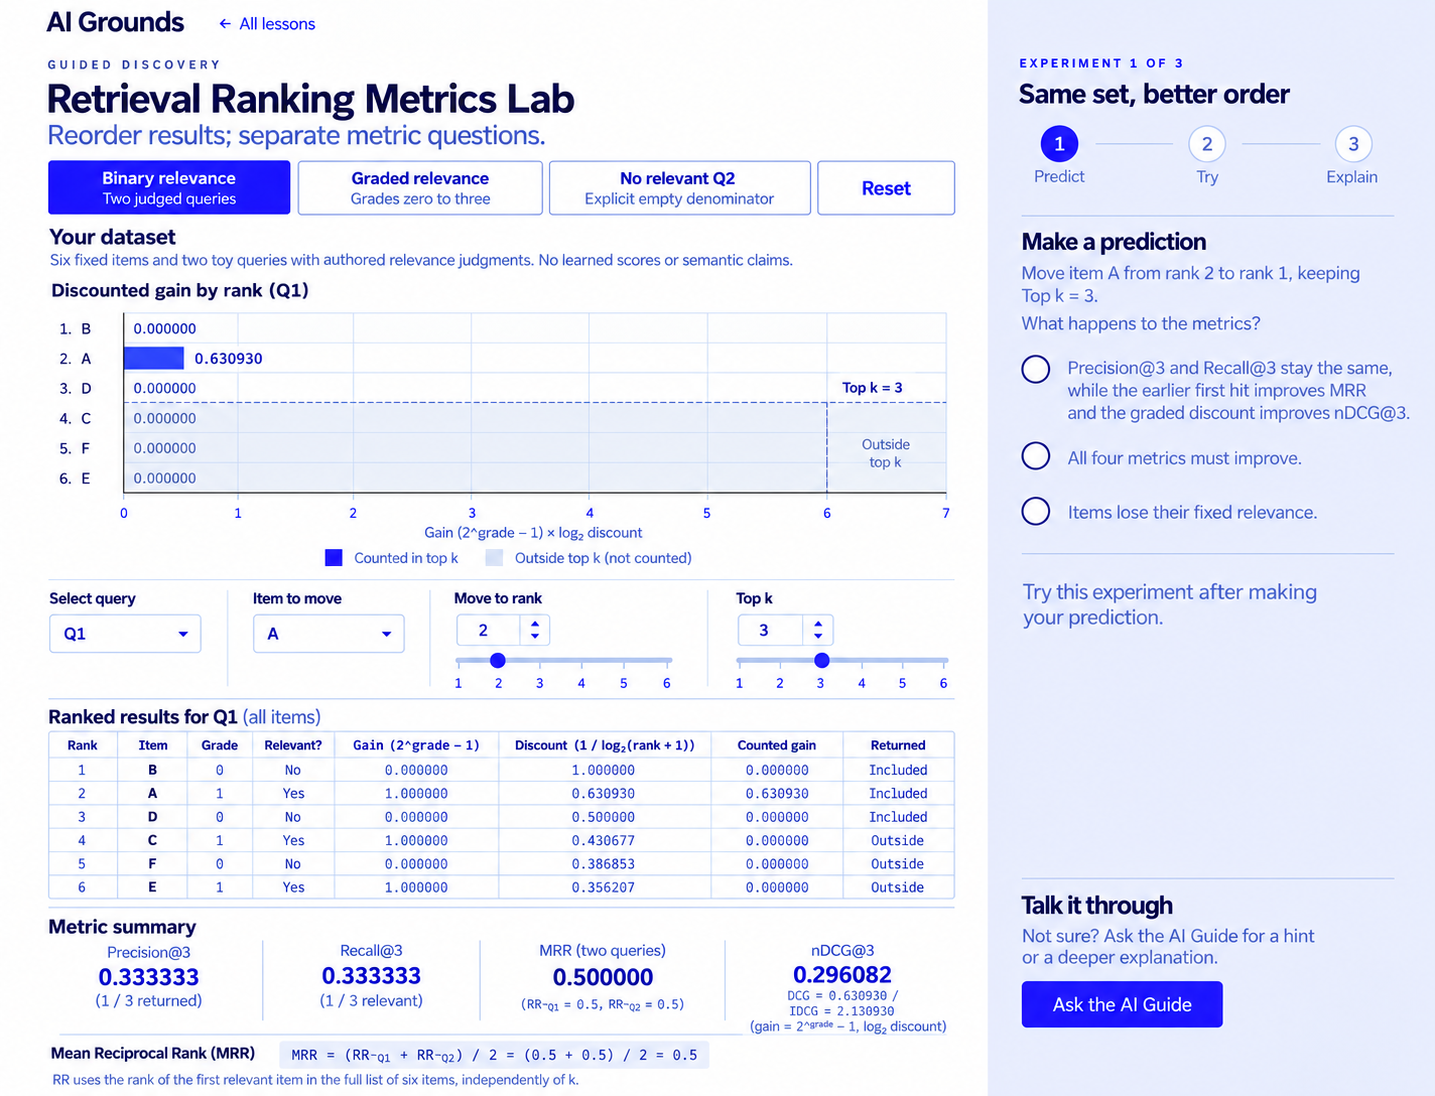
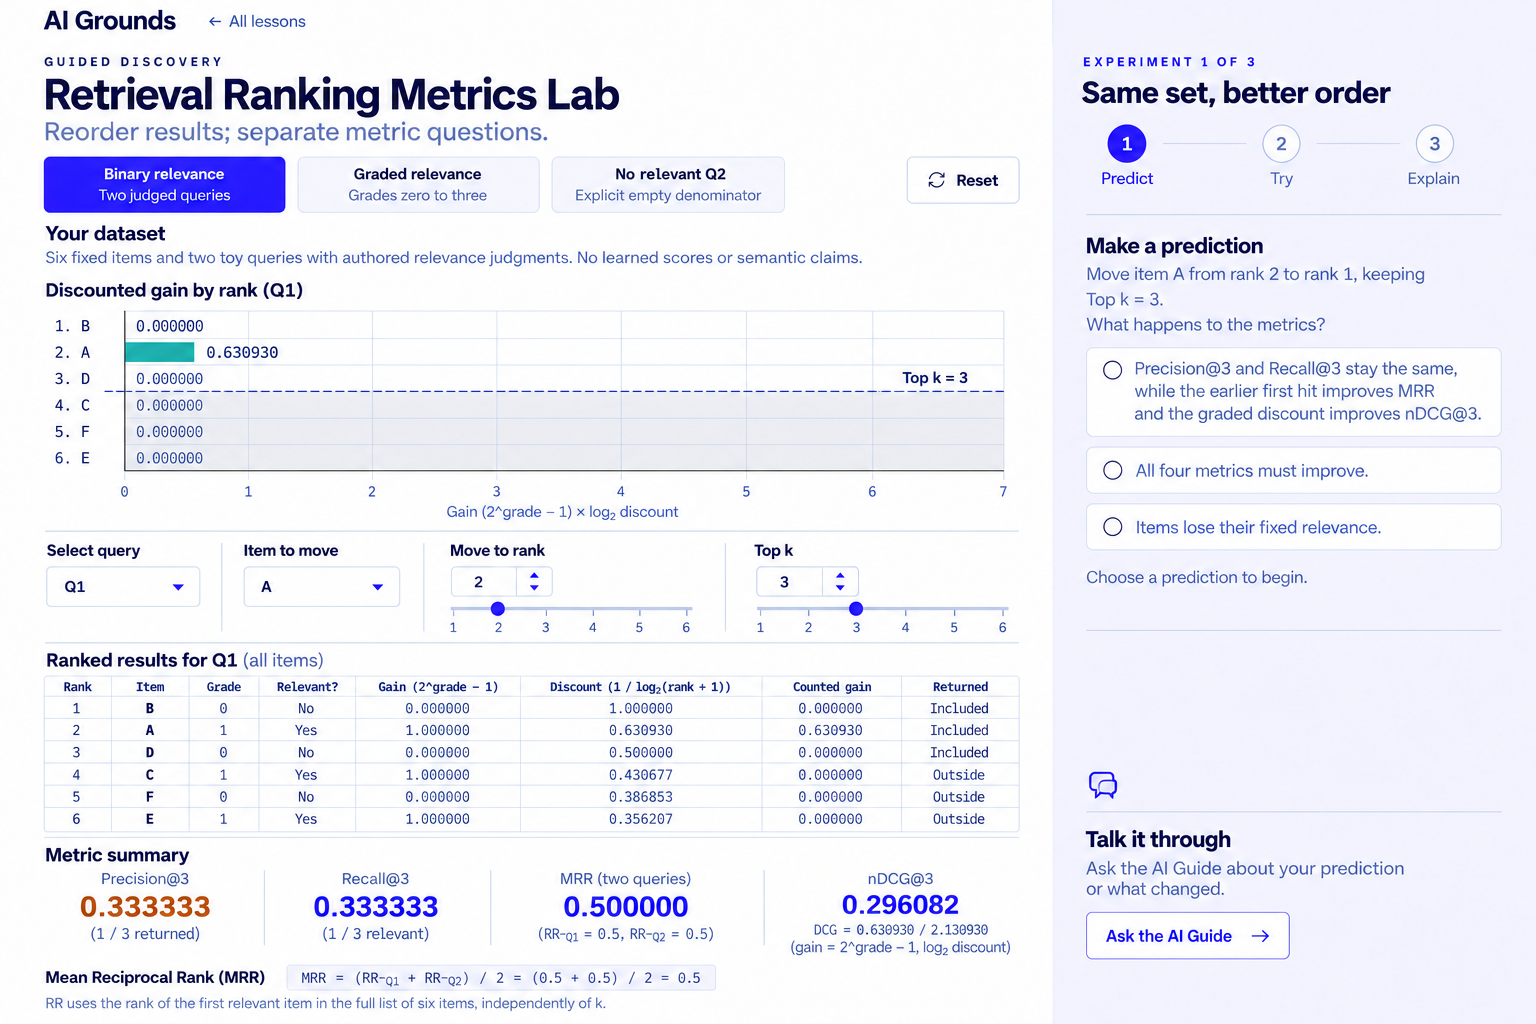
Restore original style in ranking metrics design reference

diff --git a/src/modules/retrieval-ranking-metrics/design/imagegen-prompt.md b/src/modules/retrieval-ranking-metrics/design/imagegen-prompt.md
@@ -6,3 +6,11 @@ Create a polished AI Grounds educational lesson desktop mockup at 1440x1100. Fol
 
 Create a polished AI Grounds educational lesson desktop mockup at 1440x1100. Follow the attached shared accepted reference's continuous white 69% workbench / pale lavender31% experiment rail, navy Space Grotesk, indigo controls, IBM Plex Mono formulas, fine rules, no shadow cards. Lesson title Retrieval Ranking Metrics Lab; subtitle Reorder results; separate metric questions. Top scenario buttons Binary relevance / Two judged queries, Graded relevance / Grades zero to three, No relevant Q2 / Explicit empty denominator, Reset. Initial Binary relevance selected. Your dataset: Six fixed item IDs, two toy queries with authored relevance judgments. No learned scores or semantic claims. Query selector Q1 / Q2 (Q1 selected), Item to move selector A..F (A selected), Move to rank native exact field2 +slider1..6, Top k native field3+slider1..6. Initial Q1 full ranked order B,A,D,C,F,E; grades respectively0,1,0,1,0,1. A chart 'Discounted gain by rank' has six horizontal rank rows with IDs, selected top-k boundary after rank3. Contribution bar values B0, A0.630930, D0, C0(outside topk), F0, E0(outsidetopk), fixed gain scale0..7. One exact all-ID rank table headers Rank, Item, Grade, Relevant?, Gain, Discount, Counted gain, Returned. Exact row1B grade0 no gain0 discount1 contribution0 included; row2A grade1 yes gain1 discount.630930 counted.630930 included; row3D grade0 no gain0 discount.5 counted0 included; row4C grade1 yes gain1 discount.430677 counted0 outside; row5F grade0 no gain0 discount.386853 counted0 outside; row6E grade1 yes gain1 discount.356207 counted0 outside. Metric summary open4columns Precision@3=0.333333 (1/3returned), Recall@3=0.333333 (1/3relevant), MRR(two queries)=0.500000 (full lists; RRQ1.5 RRQ2.5), nDCG@3=0.296082 (DCG.630930/IDCG2.130930; gain2^grade−1,log2discount). Plain formula MRR=(RRQ1+RRQ2)/2=(0.5+0.5)/2=0.5; RR uses first relevant in fullsixlist, independently ofk. Q2 baseline orderA,B,C,D,E,F, relevantB/D. Right rail Experiment1of3 Same set, better order; Predict→Try→Explain. Prediction asks Move A from rank2 to rank1 keepingTopk3. Choices precision/recallstaythe same while earlier first hit improvesRRandgradeddiscount; allscoresmustimprove; itemslosefixedrelevance. One Ask the AI Guide CTA inrailonly. No semanticqueries ormodelcontrols, no extra graph, no clippedtable. Exponential gain convention explicit; nDCGnotrawgradeformula. Chartillustrativebutnumberscorrect.
 REVISION: remove both redundant standalone relevance-coordinate lists, since the exact ranked table already provides every grade and Relevant? label for the selected query. Selecting Q2 inspects its own full table. Controls should be in a simple horizontal or two-column band directly below the full-width chart: Query selector (prefer shared labeled native select Q1/Q2), Item to move native select, Move to rank exact number+slider, Top k exact number+slider. Do not copy these controls into table rows. Add the small shared GUIDED DISCOVERY eyebrow above the workbench lesson title. Keep complete subtitle Reorder results; separate metric questions. Keep correct numeric table, actual barvalue.630930, fixed contribution scale0..7, per-row inclusion, summary ratios, real two-query MRR and one rail Guide launcher. No separate list of Q1/Q2grades; do not duplicate same numeric construction in an extra card. Correct nDCGgain convention remains exponential gain and 1/log2(rank+1) discount. Table can scroll locally in implementation rather than cramming labels. Reuse shared reference visual anatomy.
+
+# Original-style correction
+
+Image1 is the original APPROVED paired AI Grounds style reference; use its LEFT page's style for this ONE lesson. Preserve exact look rather than reinterpret it. White continuous workbench69%, palelavenderf6f5ff experimentrail31%, navbar64px AI Grounds / ← All lessons only. Use SpaceGrotesk headingsnavy0c1230, muted536487 body, indigo5031dc interactive controls. Body and table data are navy, NOT saturatedblue. Original inactive scenariobuttons palegraylavender withnavytext; active solidindigo withwhite. Reset small outlined withnavytext. Horizontal compact numbered Predict/Try/Explain row, radios in smallwhite thinbordered boxes, allEMPTY atinitialPredict. Open summarycolumns with thinverticalseparators and shortformulas, no dashboardcards. Talk it through plainheading +muted paragraph+one outlined Ask the AI Guide button witharrow inrail. NO topGuidebutton, NO solidwideGuidebutton, NO secondTalkbutton, NO bluehover/glow/gradientpanel. Semanticchartcolors use mutedteal087c78,indigo5031dc,orangead4508 only as needed; allmarks labeled. Image2 is current CONTENT reference only, whose blue theme must be corrected. Keep mathematical content and named controls, use originalreference anatomy. Exact chart geometry in app comes from engine; draw illustrative accurate placements. Single lesson/page only, no pairedsecondpage.
+Lesson Retrieval Ranking Metrics Lab; subtitle Reorder results; separate metric questions. Scenarios Binary relevance/Two judged queries active;Graded relevance/Grades zero to three;No relevant Q2/Explicit empty denominator. Your dataset Six fixed IDs for eachoftwo toyqueries, authored relevance judgments. Reorder results, not their grades; no learned scores. Main six horizontal discounted-contributionrows Q1 orderB,A,D,C,F,E, contribution0,.630930,0,0,0,0 onfixedgainaxis0..7; shortmutedtealbarforA length9.013%fullwidth. Topk3dashedboundary afterthirdrow;outside rows contribute0 butgradesretained. Controls QueryQ1native select,Item to moveAnative select,Move to rank2number/sliderrange1..6,Topk3number/sliderrange1..6. Table Rank/Item/Grade/Relevant?/Gain/Discount/Counted gain/Returned: 1B0no0/1/0Included;2A1yes1/.630930/.630930Included;3D0no0/.5/0Included;4C1yes1/.430677/0Outside;5F0no0/.386853/0Outside;6E1yes1/.356207/0Outside. Open4columns Precision@3.333333,Recall@3.333333,MRR(twoqueries).500000,nDCG@3.296082. MRR=(.5+.5)/2 andusesfullsixlists,independentofk. nDCG=.630930/2.130930 exponentialgain2^grade-1 anddiscount1/log2(rank+1). Rail Experiment1of3 Same set, better order. Prediction asks moveAfromrank2to1keepingTopk3. Three EMPTY boxed radios Precision/recallstayfixed,earlierfirsthitraisesRR/MRRanddiscountedgain /everymetricmustimprove /movingchangesrelevance. One outlinedGuideCTA. Bodytextandtablecontentnavy; slate-mutedsecondary; NOelectricblue/Cobaltpage. Exact originalstyle SpaceGrotesk/navy, consistentcolorsindigo/teal/orange for summaries.
+
+Correction:
+Edit Image1 (the generated Retrieval Ranking Metrics Lab) to correct ONLY these details, preserve the improved original indigo/navy/lavender style. Image2 is original approvedstyle reference. MAIN CORRECTION: Top k=3 is a RANK cutoff, not gainvalue6. Remove the vertical dashed line at gain6. Draw ONE horizontal indigo dashed line across entire chart between rows3D and4C; label Top k=3 nextto thatline. Shade rows4C,5F,6E faintneutralgray across the FULL gainaxis0..7, not onlycolumns6..7. Axisnumbers0..7untouched, Acontributionbar.630930(about9%plotwidth) remains, allexactrowvalues/tables/summarynumbersstay. Progressrow circles and labels inline compact as in Image2, no big circlesabove labels. Place shared smallpurplechat-outlineiconabove Talk it through, sameoriginal spacing. Bodytextnavy withmutedslate hints. Do not addbluecontrols. Allradiosempty. SingleoutlinedAskAI GuideCTA. No othercontentchange.
